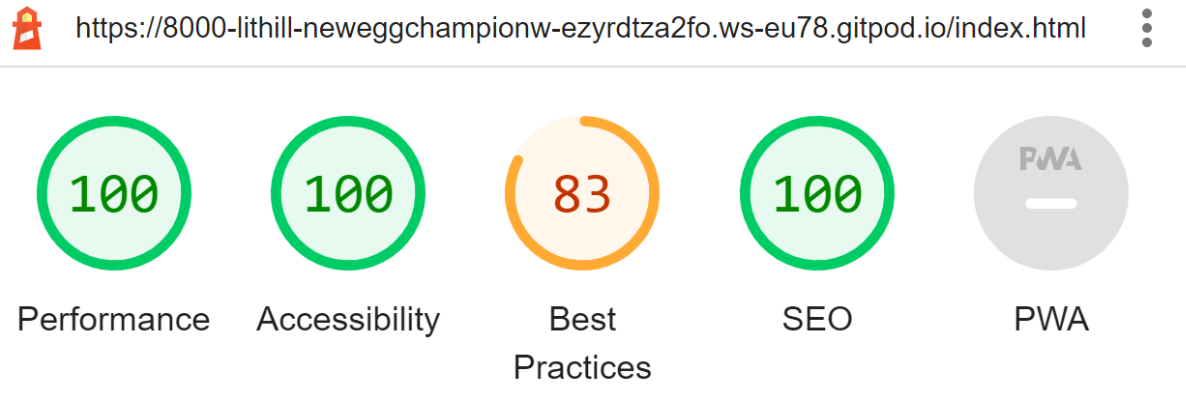
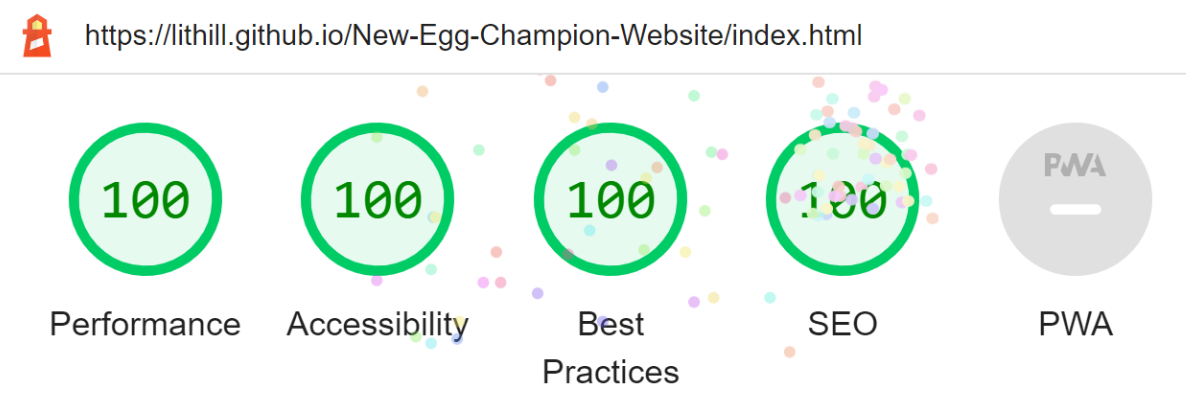
Update lighthouse scores

diff --git a/README.md b/README.md
@@ -104,7 +104,7 @@ Google Fonts was used for the following fonts:
 - The egg timer photograph used on the history page was taken and edited by Jordan Benton and found on [Pexels](https://www.pexels.com/photo/shallow-focus-photography-of-hourglass-1095602/). 
 - The egg crack overlay used on the News page was created by b0red, and found on [Pixabay](https://pixabay.com/vectors/crack-overlay-distress-effect-2147059/)
 - The image for the News page background was created by Edward Jenner and found on [Pexels](https://www.pexels.com/photo/multiple-overlay-patterns-of-monochrome-design-4252890/). The developer edited the colours using paint.net.
-- Replacement merchandise pictures were generated through [Spreadshirt](www.spreadshirt.co.uk).
+- Replacement merchandise pictures were generated through [Spreadshirt](https://www.spreadshirt.co.uk).
 - [Dall-E 2](https://openai.com/dall-e-2/) was used to create the rest of the artwork.
 - The video was made by the developer, using [InVideo](https://invideo.io/).
 
@@ -173,7 +173,7 @@ HTML5 and CSS3 were used to create this website.
 
 - [Google Fonts](https://fonts.google.com/) was used to import IM Fell Double Pica, Trirong, and League Gothic.
 - [Font Awesome](https://fontawesome.com/) was used on the footer for the social media icons.
-- [Replit](replit.com) was used as the main programme to write the code, which was then sent to GitHub for version control. The reader can see the [Replit version here](https://replit.com/@RossHamilton/New-Egg-Champion-Website#index.html).
+- [Replit](https://replit.com/) was used as the main programme to write the code, which was then sent to GitHub for version control. The reader can see the [Replit version here](https://replit.com/@RossHamilton/New-Egg-Champion-Website#index.html).
 - [Git](https://git-scm.com/) was used for version control by using the Gitpod terminal to commit to Git and Push to GitHub.
 - [GitHub](https://github.com/) was used to store the project's code after being pushed from Replit, and to handle version control.
 - [Paint.Net](https://www.getpaint.net/download.html) was used to create the logos on each corner of the header.
@@ -225,7 +225,7 @@ Testing was ongoing throughout the entire build. I utilised Chrome developer too
 
 ### W3C Validator
 
-The [W3C HTML Validator](https://validator.w3.org/) was used to validate the HTML on all pages of the website. The [W3C CSS Validator](https://jigsaw.w3.org/) was used to validate CSS in the style.css file.
+The [W3C HTML Validator](https://validator.w3.org/) was used to validate the HTML on all pages of the website. The [W3C CSS Validator](https://jigsaw.w3.org/css-validator/) was used to validate CSS in the style.css file.
 
 * [Index Page HTML](assets/images/html-checker-index.png)
 * [News Page HTML](assets/images/html-checker-news.png)
